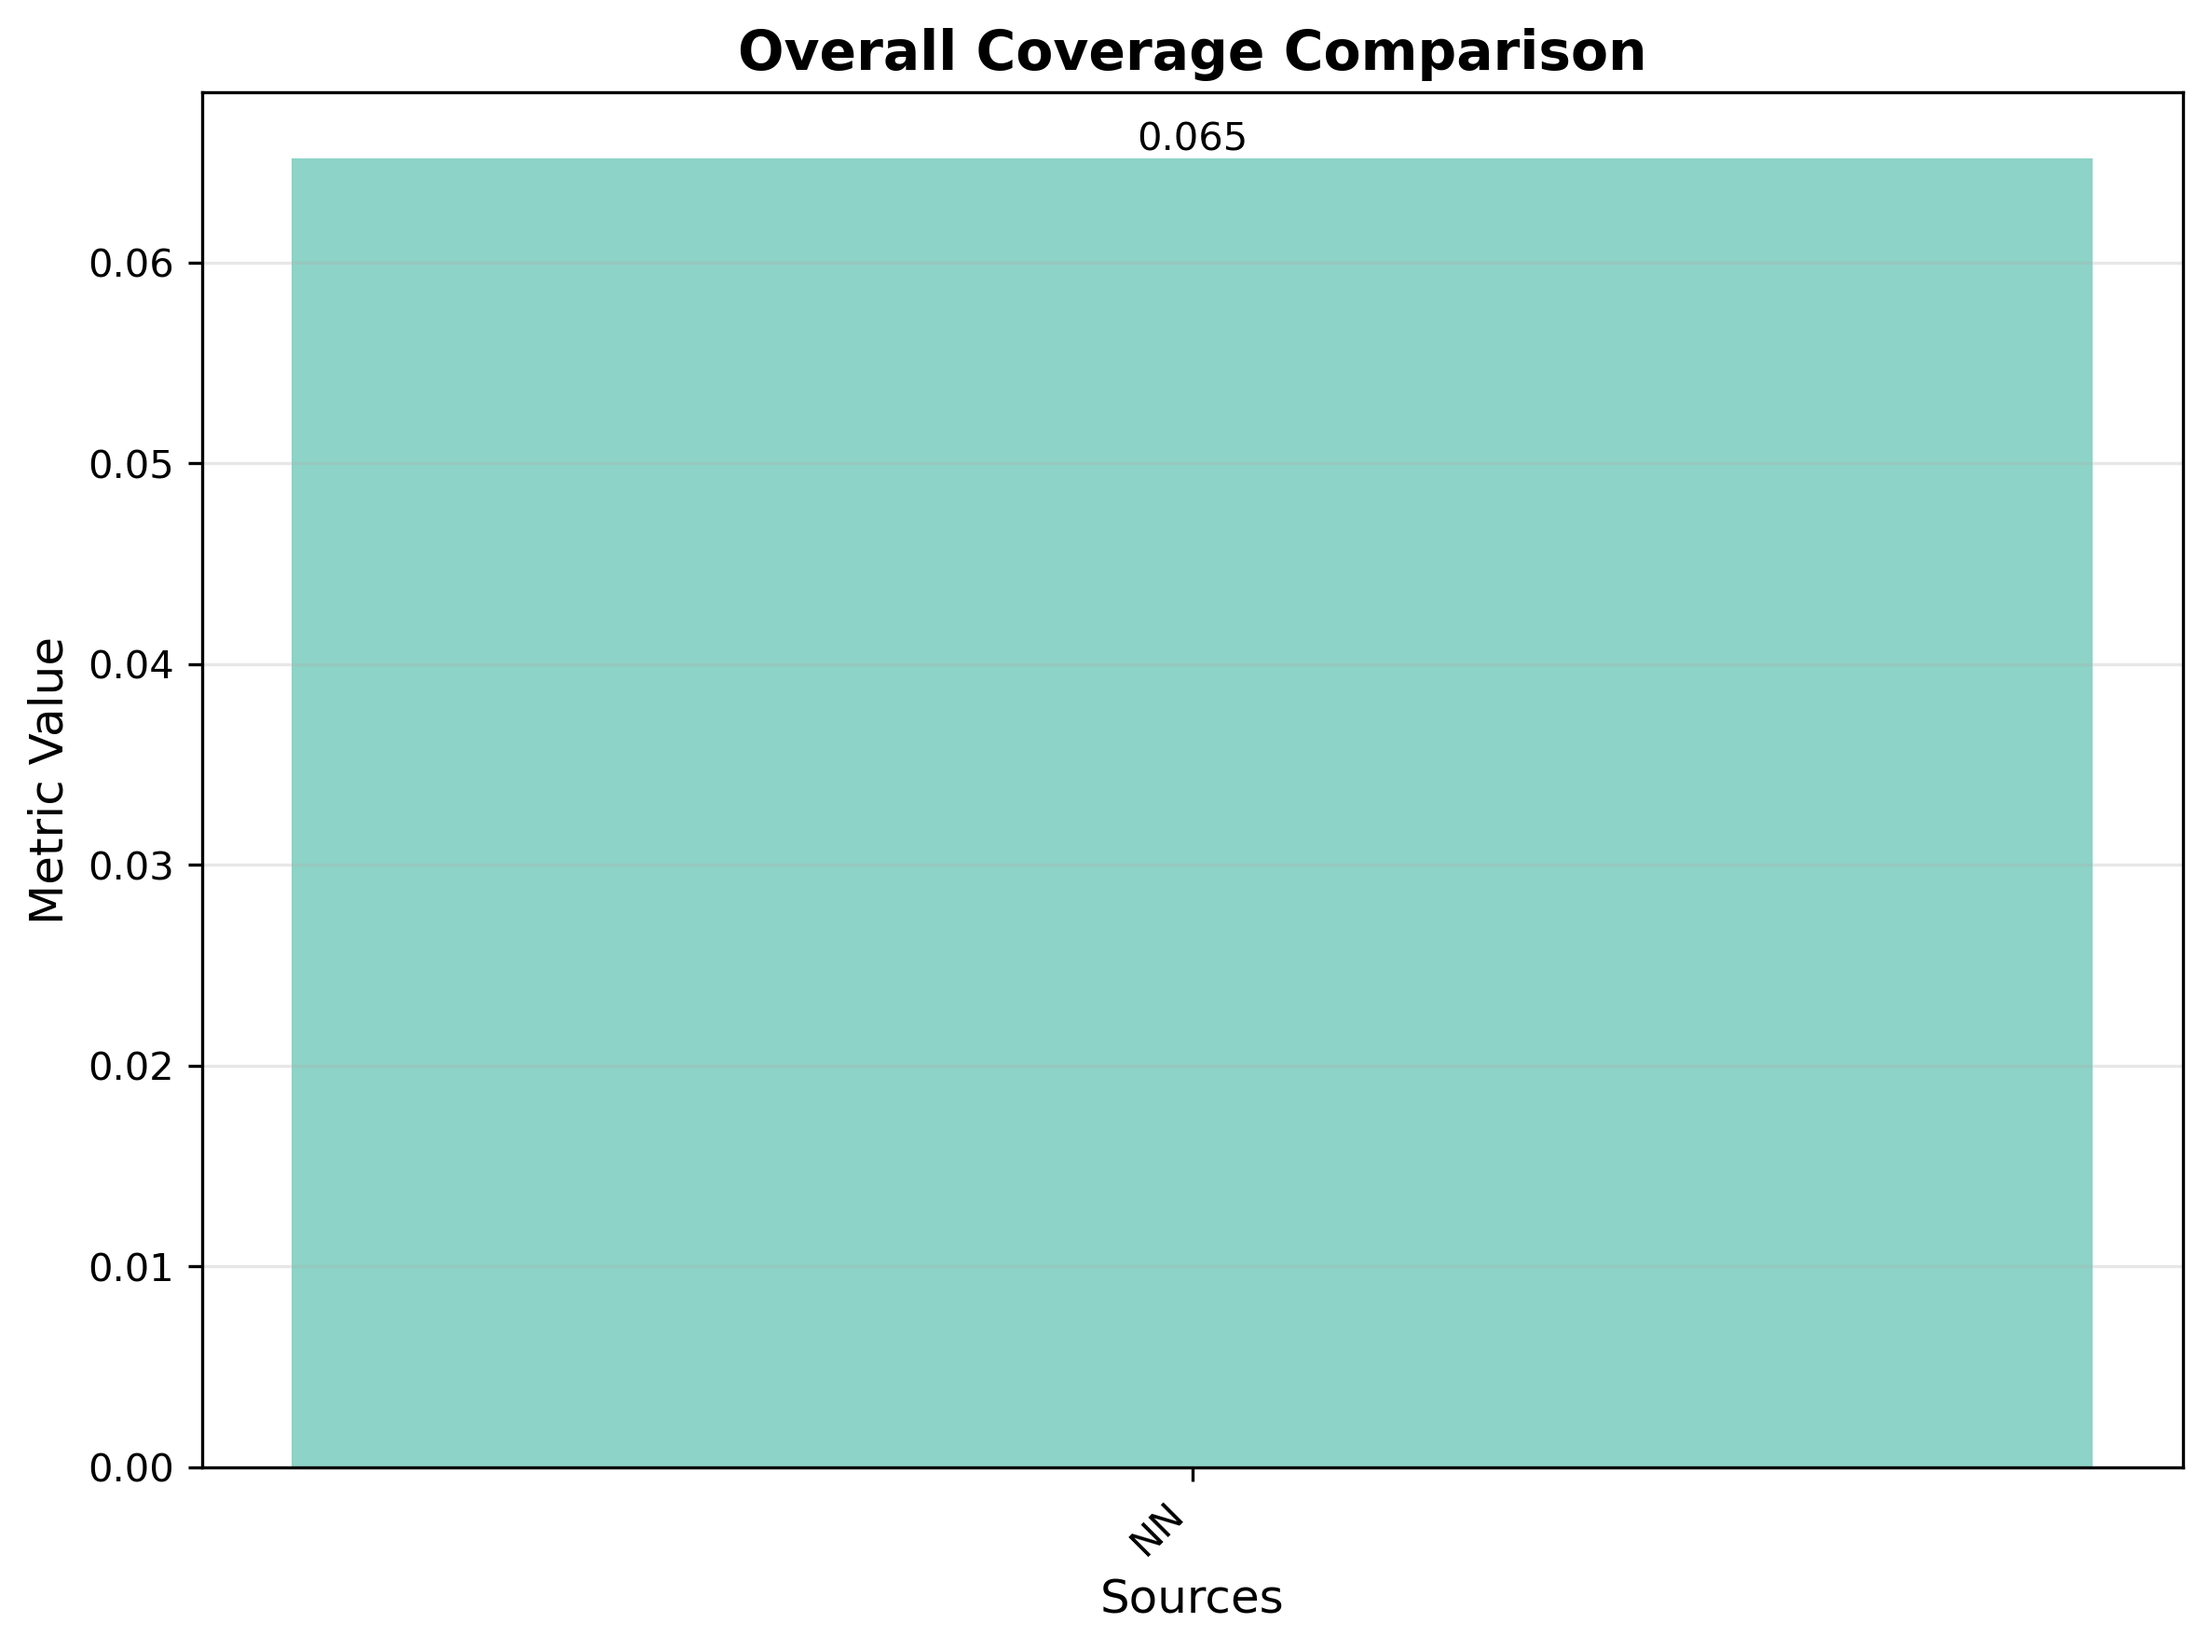
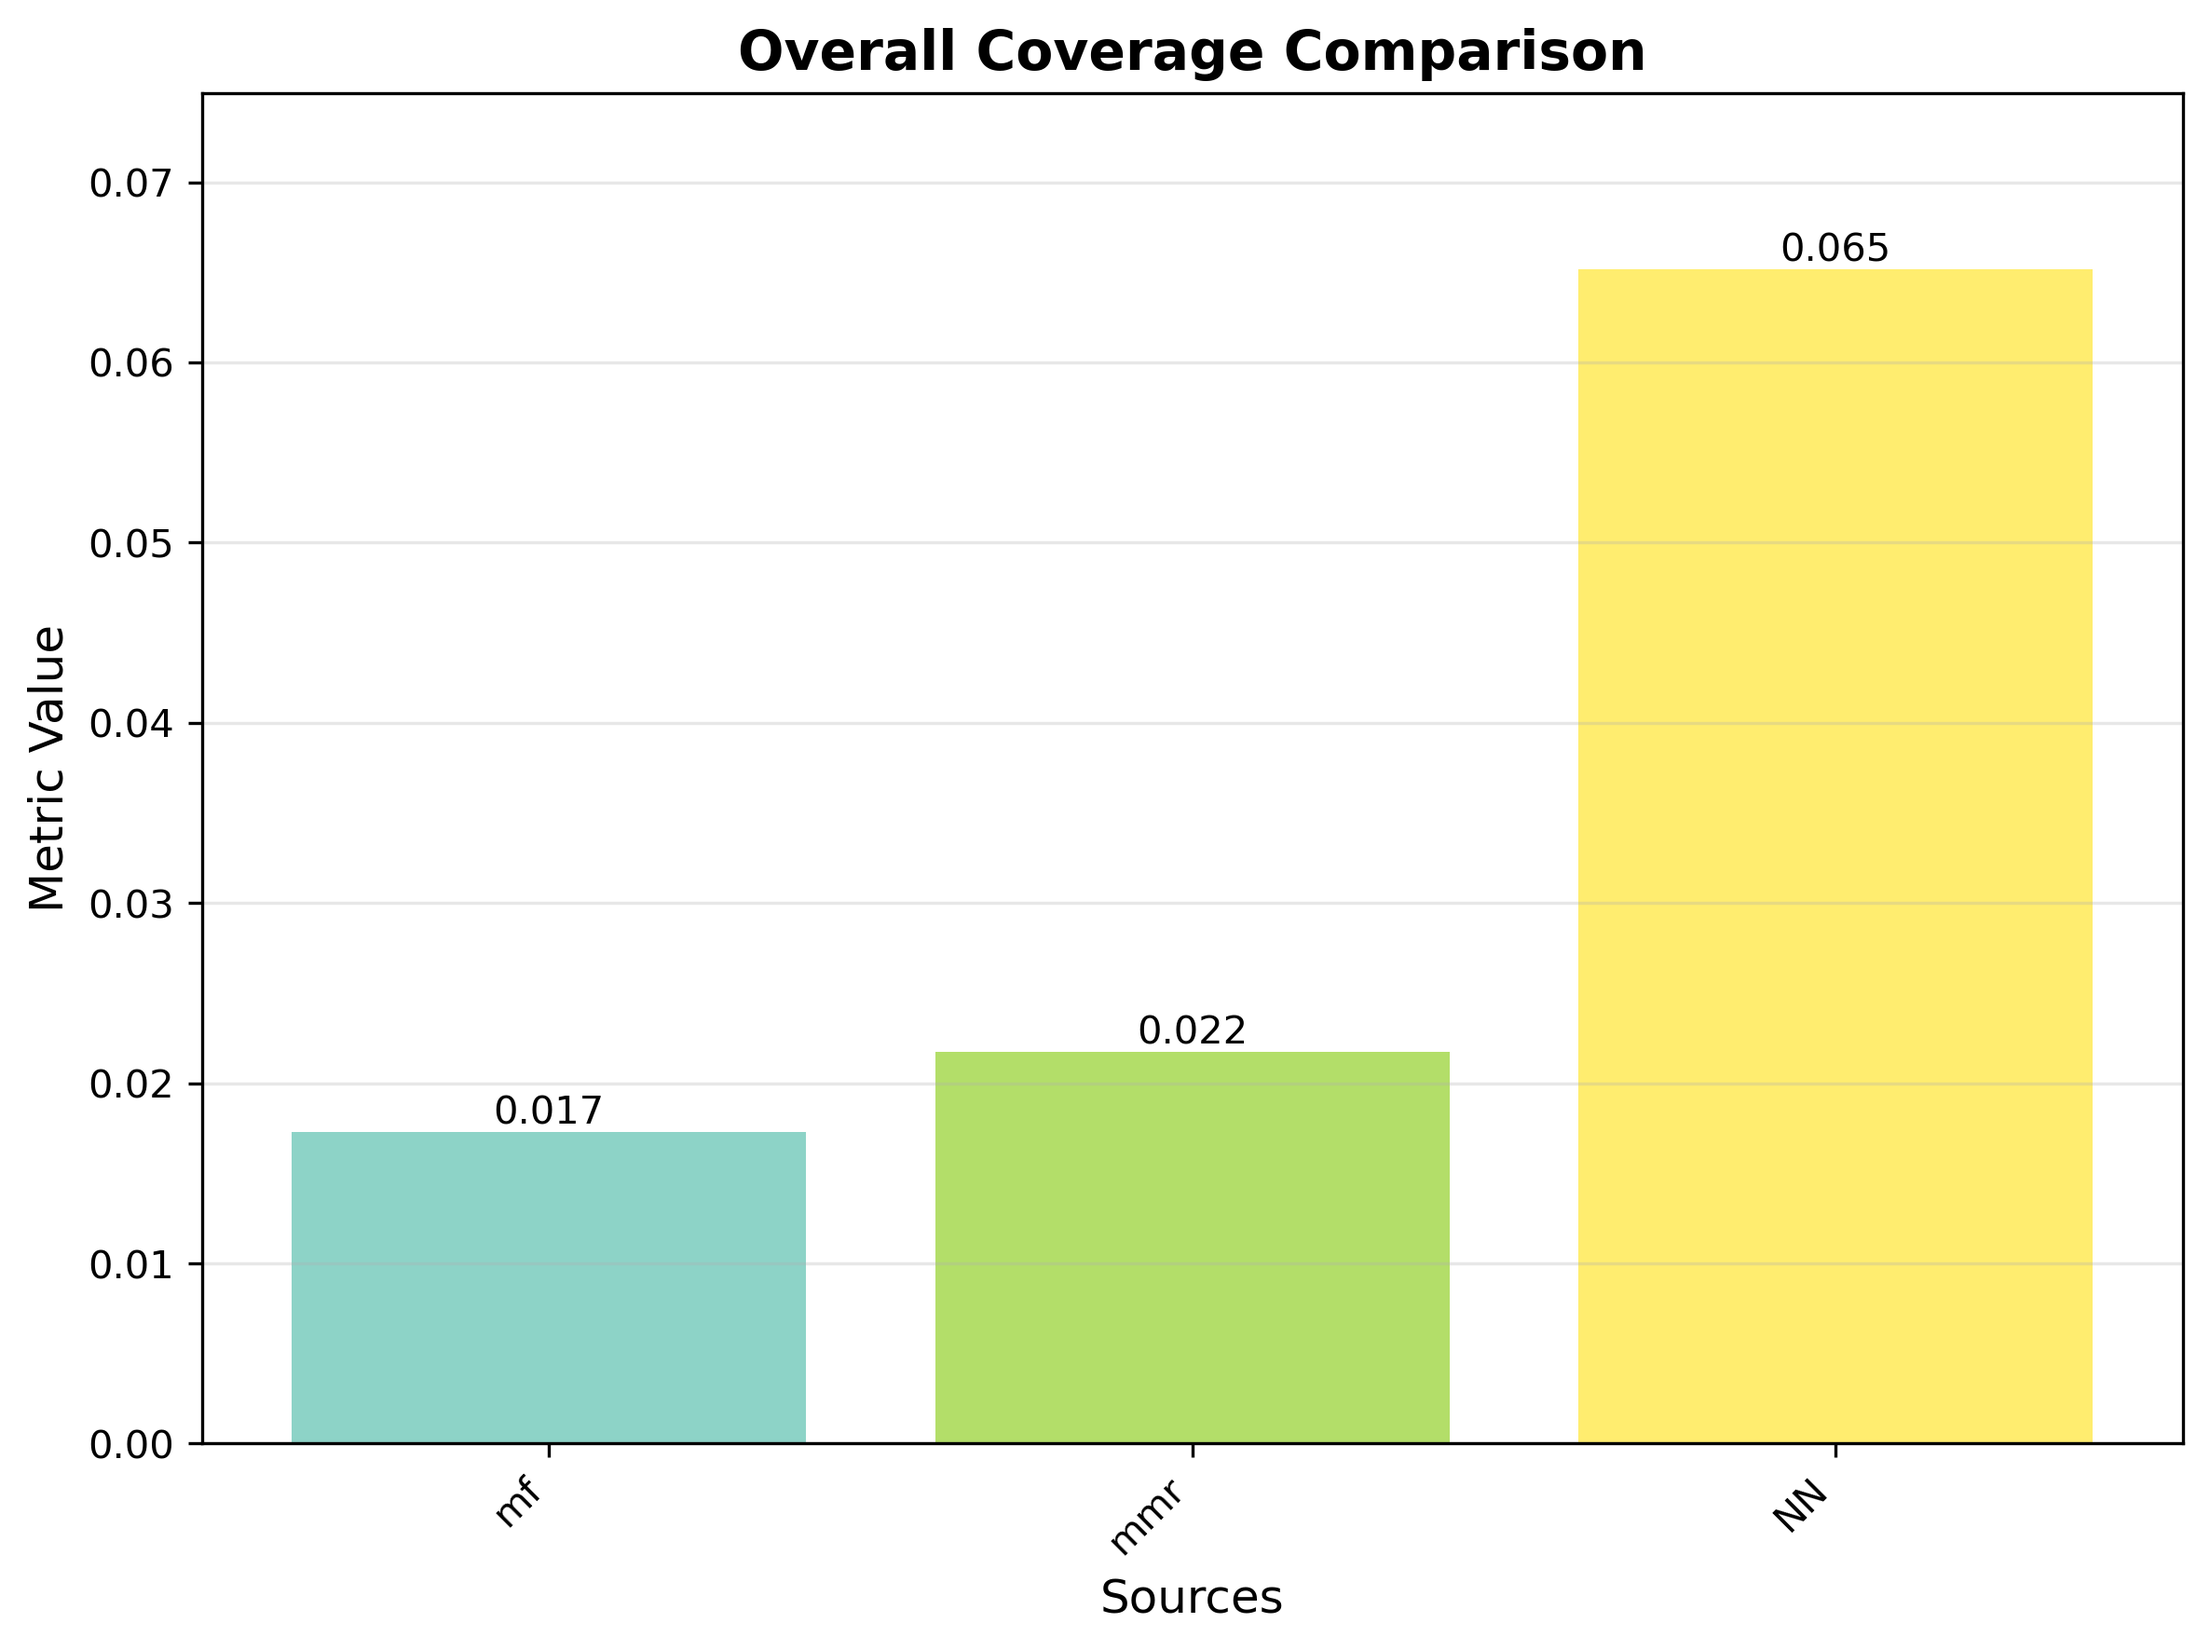
fixed it so it should now work, ild i still maybee troublesome

diff --git a/src/evaluation/MetricsReporter2.py b/src/evaluation/MetricsReporter2.py
@@ -153,9 +153,10 @@ def _calculate_ild(data_handler, item_features, k):
         distance_calc = PairwiseHammingDistanceCalculator(item_features)
         ild_metric = IntraListDiversity(k=k, distance_calculator=distance_calc)
 
+        # FIX: Remove 'catalog' parameter
         ild_per_user = ild_metric.calc_per_user(
             reco=data_handler.recommendations,
-            catalog=data_handler.full_interactions['item_id'].unique()
+            # catalog=data_handler.full_interactions['item_id'].unique()   REMOVE THIS LINE
         )
         return ild_per_user.mean()
     except Exception as e:
@@ -202,37 +203,45 @@ def save_metrics_table_as_file(metrics_df, filename="metrics_results"):
 
 # function for creating charts of calculated metrics
 def plot_individual_metric_charts(df_metrics, output_dir="metric_charts"):
-    # create charts folder if it doesnt exist
+    # Create charts folder if it doesn't exist
     if not os.path.exists(output_dir):
         os.makedirs(output_dir)
 
-    # loop making plots for each metric
+    # Loop making plots for each metric
     for metric in df_metrics.columns:
-        plt.figure(figsize=(8, 6))
+        fig, ax = plt.subplots(figsize=(8, 6))  # Create figure and axes
 
         # Create bar chart
-        bars = plt.bar(df_metrics.index, df_metrics[metric],
-                       color=plt.cm.Set3(np.linspace(0, 1, len(df_metrics.index))))
+        bars = ax.bar(df_metrics.index, df_metrics[metric],
+                      color=plt.cm.Set3(np.linspace(0, 1, len(df_metrics.index))))
 
         # Add value labels
         for bar in bars:
             height = bar.get_height()
             if not np.isnan(height):
-                plt.text(bar.get_x() + bar.get_width() / 2., height,
-                         f'{height:.3f}',
-                         ha='center', va='bottom')
+                ax.text(bar.get_x() + bar.get_width() / 2., height,
+                        f'{height:.3f}',
+                        ha='center', va='bottom', fontsize=10)
 
-        plt.title(f'{metric} Comparison', fontsize=14, fontweight='bold')
-        plt.xlabel('Sources', fontsize=12)
-        plt.ylabel('Metric Value', fontsize=12)
-        plt.xticks(rotation=45, ha='right')
-        plt.grid(axis='y', alpha=0.3)
+        # ✅ FIX: Add 15% padding to top of y-axis
+        max_height = df_metrics[metric].max()
+        if not np.isnan(max_height):
+            ax.set_ylim(0, max_height * 1.15)  # 15% padding at top
+
+        ax.set_title(f'{metric} Comparison', fontsize=14, fontweight='bold')
+        ax.set_xlabel('Sources', fontsize=12)
+        ax.set_ylabel('Metric Value', fontsize=12)
+        ax.set_xticks(range(len(df_metrics.index)))
+        ax.set_xticklabels(df_metrics.index, rotation=45, ha='right')
+        ax.grid(axis='y', alpha=0.3)
+
+        # Adjust layout to prevent label cutoff
         plt.tight_layout()
 
         # Save individual chart
         filename = os.path.join(output_dir, f"{metric.replace(' ', '_')}_chart.png")
         plt.savefig(filename, dpi=300, bbox_inches="tight")
-        plt.close()
+        plt.close(fig)
 
     print(f"Individual metric charts saved in '{output_dir}' directory")
 
@@ -276,8 +285,8 @@ if __name__ == "__main__":
     # Models to compare
     MODELS = [
         # (r"C:\Users\Jacob\Documents\GitHub\P5\src\datasets\mmr_data\test_predictions.csv", "Test"),
-        #(r"C:\Users\Jacob\Documents\GitHub\P5\src\datasets\mmr_data\movie\ALIGNED_mf_test_predictions.csv", "mf"),
-        #(r"C:\Users\Jacob\Documents\GitHub\P5\src\datasets\mmr_data\movie\aligned_mmr_train_cosine_test_recommendations.csv", "mmr"),
+        (r"C:\Users\Jacob\Documents\GitHub\P5\src\datasets\mmr_data\movie\ALIGNED_mf_test_predictions.csv", "mf"),
+        (r"C:\Users\Jacob\Documents\GitHub\P5\src\datasets\mmr_data\movie\aligned_mmr_train_cosine_test_recommendations.csv", "mmr"),
         (
         r"C:\Users\Jacob\Documents\GitHub\P5\src\datasets\mmr_data\predictionNNwithBPR.csv",
         "NN")

diff --git a/src/evaluation/DataHandler2.py b/src/evaluation/DataHandler2.py
@@ -143,15 +143,37 @@ def _validate_columns(gt, pred):
         else:
             print(f"{name} has all required columns")
 
+
 def _prepare_interactions(df):
     print(f"\nPreparing interactions - selecting columns: {['user_id', 'item_id', 'weight']}")
-    return df[["user_id", "item_id", "weight"]].copy()
+    interactions = df[["user_id", "item_id", "weight"]].copy()
+
+    # ✅ FIX: Force consistent dtypes
+    interactions["user_id"] = interactions["user_id"].astype(str)
+    interactions["item_id"] = interactions["item_id"].astype(str)
+    interactions["weight"] = interactions["weight"].astype(float)
+
+    print(f"Interaction dtypes:\n{interactions.dtypes}")
+    return interactions
 
 
 def _prepare_recommendations(df):
     print(f"\nPreparing recommendations - selecting columns: {['user_id', 'item_id', 'weight']}")
     recos = df[["user_id", "item_id", "weight"]].copy()
-    recos = recos.sort_values(["user_id", "weight"], ascending=[True, False])
-    recos["rank"] = recos.groupby("user_id").cumcount() + 1
-    print(f"Added 'rank' column to recommendations. Sample:\n{recos.head()}")
+
+    # ✅ FIX: Force consistent dtypes
+    recos["user_id"] = recos["user_id"].astype(str)
+    recos["item_id"] = recos["item_id"].astype(str)
+    recos["weight"] = recos["weight"].astype(float)
+
+    # If rank already exists, don't add it again
+    if "rank" not in recos.columns:
+        recos = recos.sort_values(["user_id", "weight"], ascending=[True, False])
+        recos["rank"] = recos.groupby("user_id").cumcount() + 1
+        print(f"Added 'rank' column to recommendations.")
+    else:
+        print(f"'rank' column already exists, using provided ranks.")
+
+    print(f"Recommendations dtypes:\n{recos.dtypes}")
+    print(f"Sample:\n{recos.head()}")
     return recos
